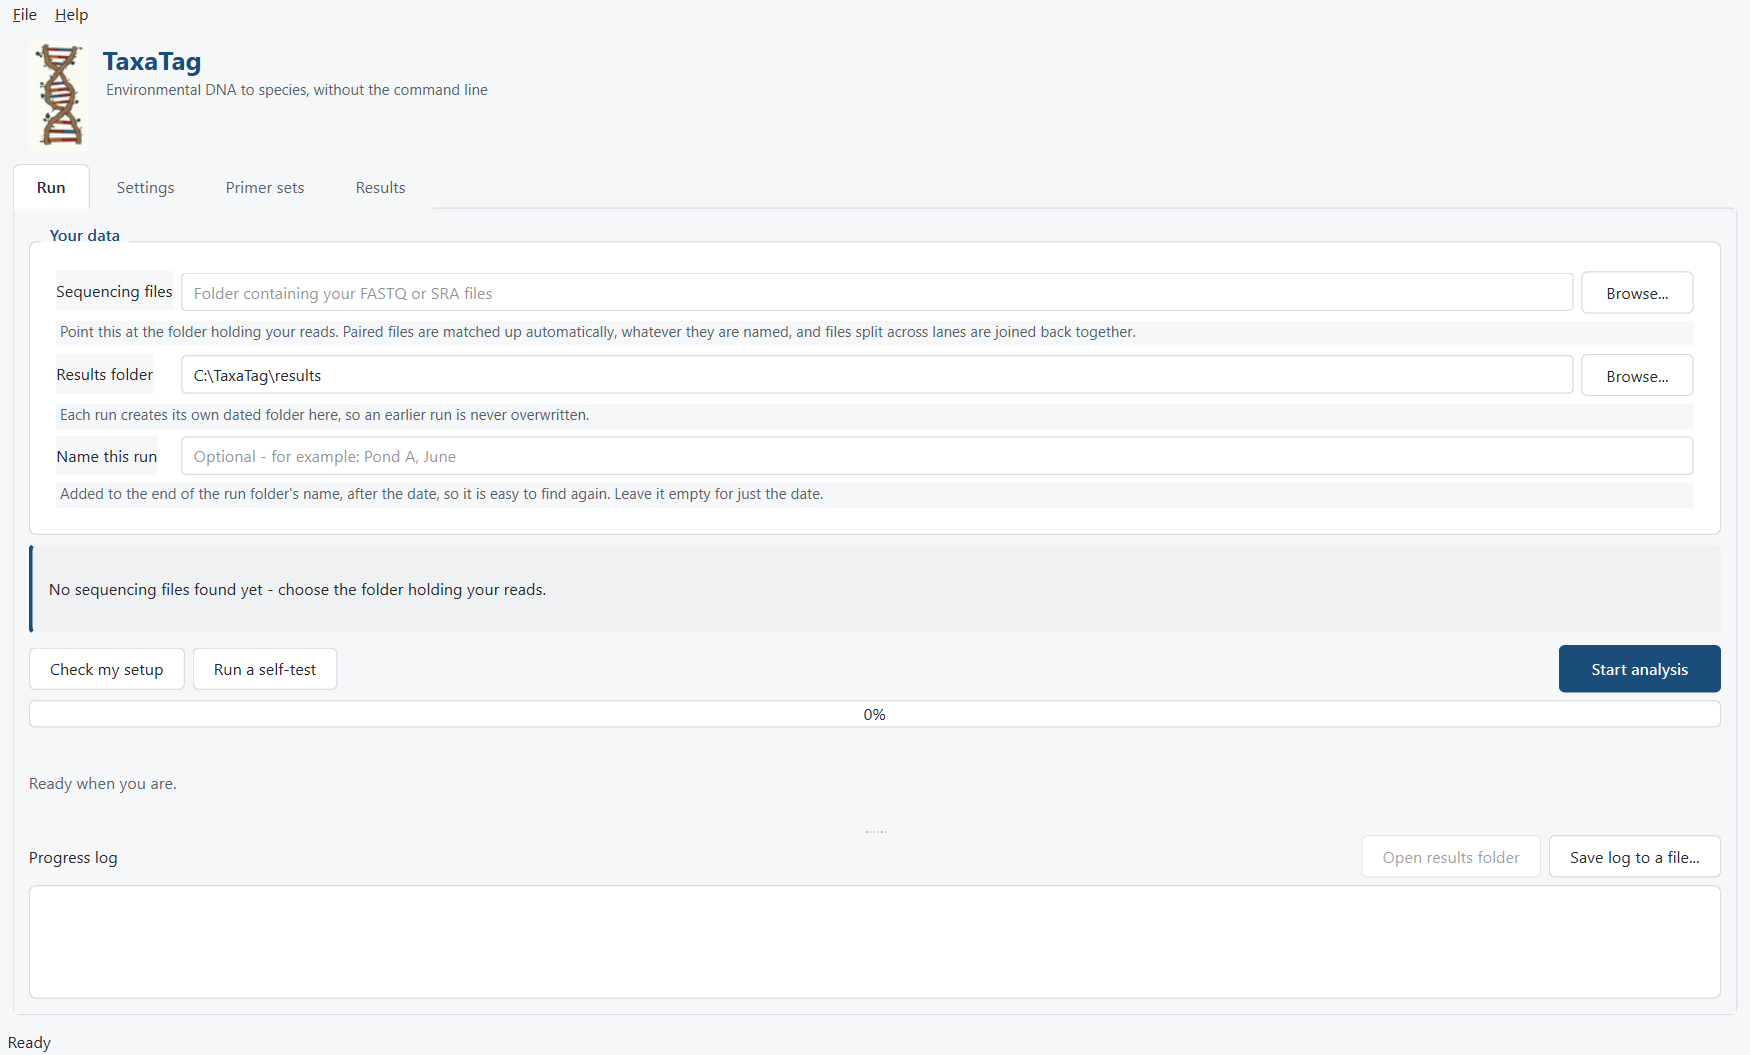
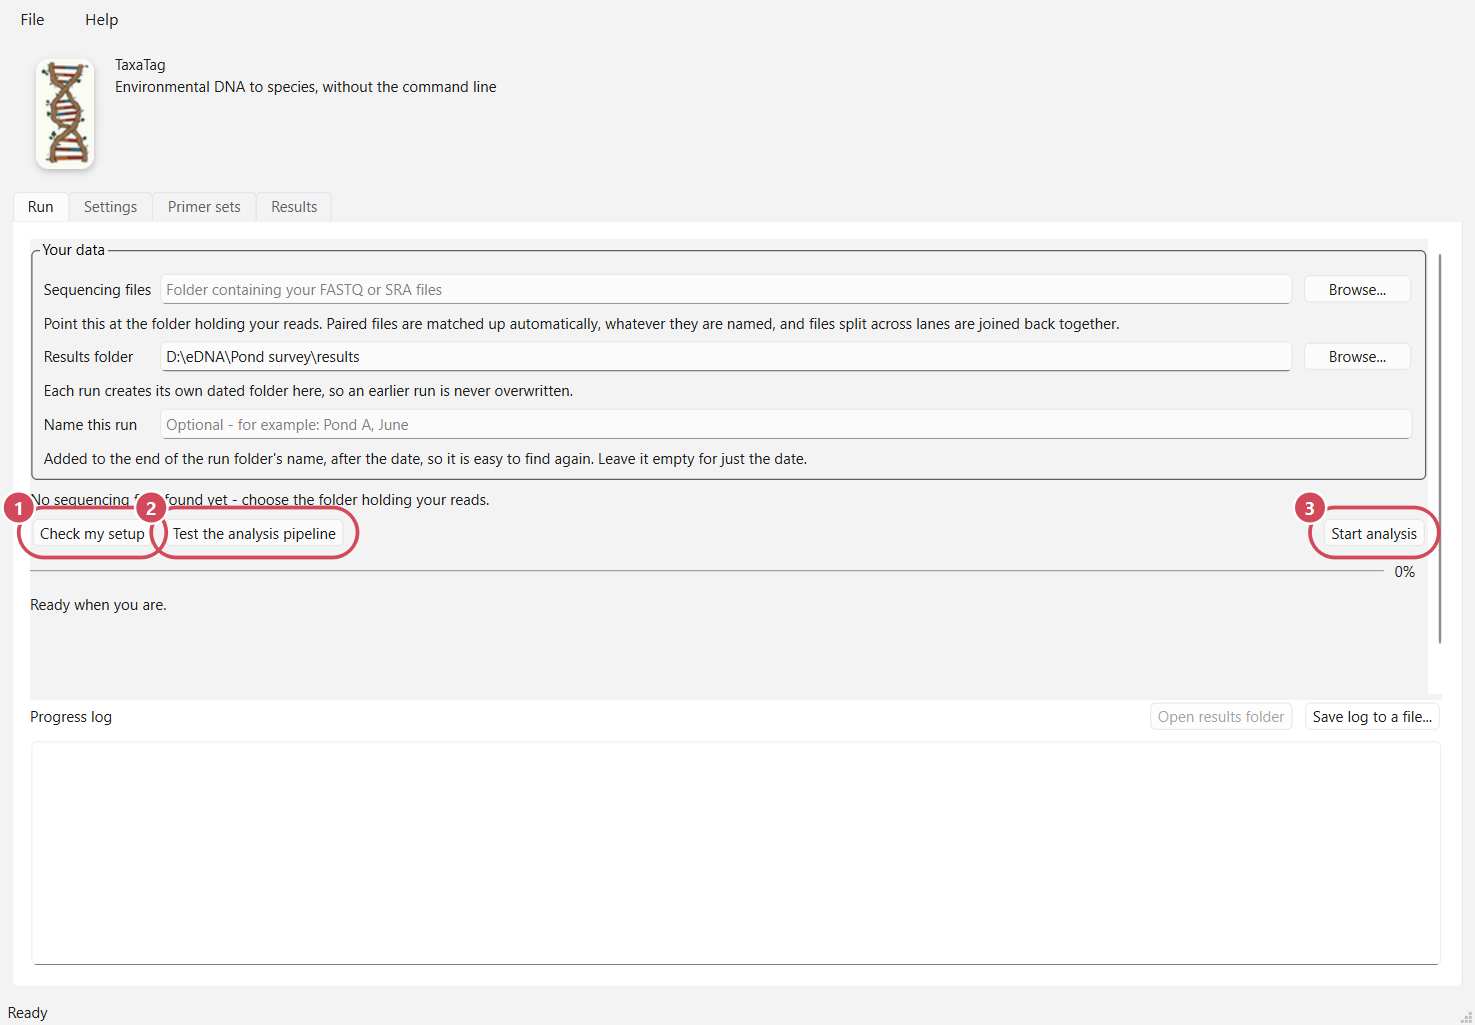
Show real results, file formats and requirements

diff --git a/README.md b/README.md
@@ -7,6 +7,10 @@ table of which species were found in which sample. Designed on Windows and comin
 
 ![The TaxaTag window](resources/screenshot-run.png)
 
+**1** checks your files, tools and settings before anything runs. **2** analyses
+four bundled samples whose answers are known, so you can prove the installation
+works before trusting it with real data. **3** starts.
+
 Metabarcoding analysis has generally meant a chain of command-line tools, a
 Linux machine, and paths and thresholds edited into scripts by hand. TaxaTag
 does the same science through a window, with every setting visible and
@@ -64,6 +68,12 @@ Everything is on the [releases page](https://github.com/Rudie-K/TaxaTag/releases
 Take the **portable zip** if you are on a managed university or consultancy
 laptop, or if you are unsure. It is the same program.
 
+**What it needs:** Windows 10 or 11, 64-bit. About 450 MB for the program and
+2 GB more if you take the reference library. 8 GB of memory is comfortable.
+No administrator password, no Python, no R, and nothing else to install —
+Cutadapt, VSEARCH, NCBI BLAST+ and the SRA Toolkit are all inside the
+download.
+
 **On macOS and Linux** there is no packaged download yet. TaxaTag itself runs
 on both — the tools it needs are bundled for all three systems — so you can
 run it from the source folder today with `./taxatag.sh`, which sets itself up
@@ -90,21 +100,60 @@ the *Run* tab if you would rather decide later.
 
 ### 4. Run your data
 
-Point **Sequencing files** at the folder holding your reads — paired files are
-matched up automatically, whatever they are named, and files split across lanes
-are joined back together. Choose a **Results folder**. Press **Check my setup**
-to catch problems before anything runs, then **Start analysis**.
+Point **Sequencing files** at the folder holding your reads. Choose a
+**Results folder**. Press **Check my setup**, then **Start analysis**.
+
+TaxaTag reads what comes off a sequencer or out of the SRA, as it arrives:
+
+| | |
+|---|---|
+| `.fastq`, `.fastq.gz`, `.fq.gz` | the usual output of a sequencing run |
+| `.sra`, or a bare accession folder | downloaded from the NCBI Sequence Read Archive |
+
+Paired files are matched up automatically **whatever they are named** —
+`_R1`/`_R2`, `_1`/`_2`, or a convention your sequencing provider invented — and
+files split across lanes are joined back together. You do not rename anything.
+
+**How long it takes.** TaxaTag tells you before you start: the line above the
+buttons gives an estimate for the folder you have chosen, learned from runs
+already measured on that machine. As a rough guide, twenty samples against a
+local library is minutes rather than hours; the same twenty against NCBI over
+the web is considerably slower, because the wait is theirs and not yours.
 
 ### 5. Read the results
 
 Each run creates its own dated folder, so an earlier run is never overwritten.
-The file most people want is `05_results/species_composition.csv`: one row per
-species, one column per sample, with the rank resolved and the
-evidence behind it.
+Results open in the window, and any earlier run can be reopened from the
+picker at **1**.
 
-Every setting has its own explanation in the window, so the program is the
-manual for the rest: what each results file contains, how to resume an
-interrupted run, and what to do when something looks wrong.
+![The results of a finished run](resources/screenshot-results.png)
+
+This is a real run: twenty-one water samples from a Sussex kelp survey, 16S,
+against the marine core library. One sample's rows, as they come out:
+
+| Scientific name | Rank | Identity | Reads | % of sample | Family |
+|---|---|---|---|---|---|
+| Unidentified | **Unidentified** | 100 | 50,840 | 70.7 | |
+| *Mullus surmuletus* | Species | 100 | 3,058 | 4.25 | Mullidae |
+| *Scomber scombrus* | Species | 100 | 1,898 | 2.64 | Scombridae |
+| *Trigloporus lastoviza* | Species | 100 | 886 | 1.23 | Triglidae |
+| *Callionymus lyra* | Species | 100 | 770 | 1.07 | Callionymidae |
+| *Diplecogaster bimaculata* | Species | 100 | 395 | 0.55 | Gobiesocidae |
+| *Trachurus* | **Genus** | 100 | 361 | 0.50 | Carangidae |
+| *Pomatoschistus pictus* | Species | 99.55 | 286 | 0.40 | Gobiidae |
+
+Red mullet, mackerel, streaked gurnard, dragonet, two-spotted clingfish, a
+painted goby — and two rows that are the point of the program.
+
+***Trachurus*** **stops at genus.** Several horse mackerel species matched
+equally well, and rather than pick the first and call it a species, TaxaTag
+reports the rank they agree on. **"Unidentified"** is the same honesty
+applied to a sequence nothing matched well enough to name. Both are visible
+in the table, both are counted, and neither is quietly dropped.
+
+The file behind it is `05_results/species_composition.csv` — one row per taxon
+per sample, with the evidence beside it. **Save a copy of this table** writes
+whatever you are looking at, filters included.
 
 ---
 
@@ -153,9 +202,18 @@ belongs to. **Check my setup** names anything that would stop a run before it
 starts, and **Test the analysis pipeline** proves the installation works on
 data whose answer is already known.
 
-Beyond that, this page is the manual. **Help → About** shows the version,
-the licence and where your settings file lives — worth having to hand if you
-get in touch.
+Beyond that, this page is the manual.
+
+**If something goes wrong**, open an
+[issue](https://github.com/Rudie-K/TaxaTag/issues) and say what you did, what
+happened, and what you expected. **Help → About** shows the version and where
+your settings file lives; both are worth including. **Save log to a file...**
+on the *Run* tab writes everything TaxaTag printed during a run, which is
+usually the fastest way to see what happened.
+
+Bug reports are welcome and so are requests. TaxaTag is built for a particular
+kind of survey, and the way it learns about others is somebody saying theirs
+does not fit.
 
 ---
 
